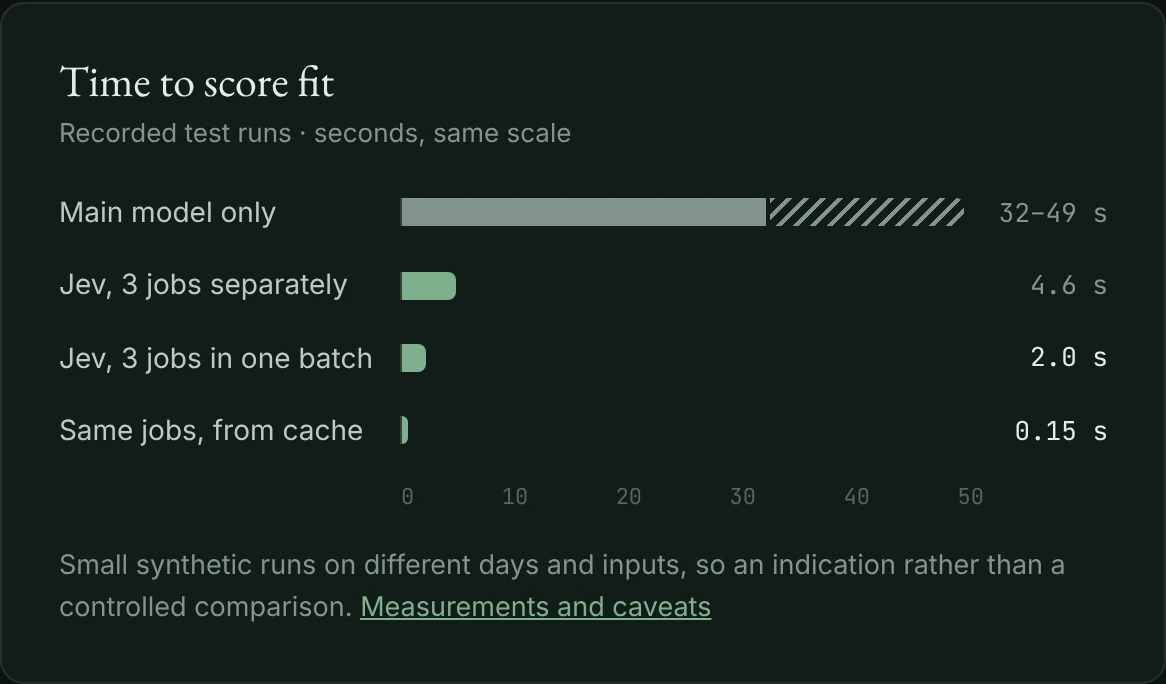
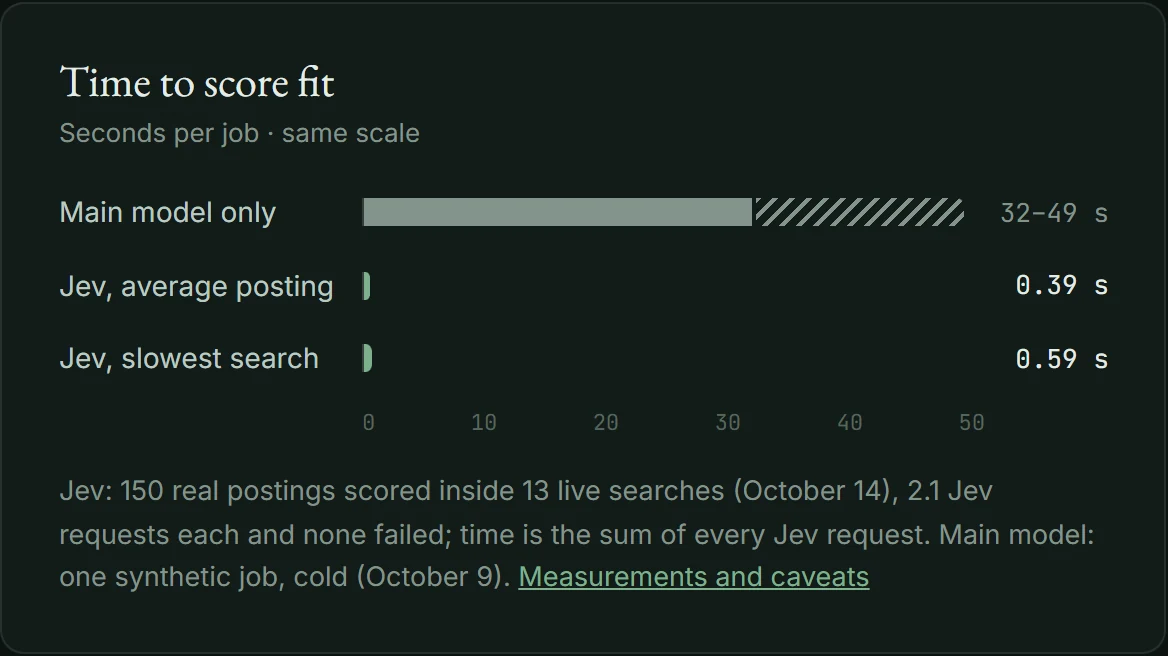
README and website: new Council screenshots and live Jev data
- Council screenshots (desktop and phone, Day and Night) retaken from the real app
  with demo data: the search summary and a tiered result card. The README grid now
  uses the desktop Council view like the other places.
- Jev chart and numbers from the live scenario runs: 150 real postings in 13
  searches, 0.39 s of Jev time per posting (0.28–0.59 s per search), 2.1 requests
  each, 0 of 317 failed. Chart images are rendered from the website's own chart.
- Guide example and image descriptions match the new screenshot.

diff --git a/frontend/site/index.html b/frontend/site/index.html
@@ -137,8 +137,8 @@
       <figure class="hero-shot">
         <div class="window">
           <div class="window-bar" aria-hidden="true"><i></i><i></i><i></i><span>localhost:8000/apply</span></div>
-          <img class="for-night" src="assets/screens/chat-night.webp" width="1600" height="1000" alt="Eregion's Council view: a 91 out of 100 match for a Product Analyst role, with the agent's explanation of strengths and the one gap.">
-          <img class="for-day" src="assets/screens/chat-light.webp" width="1600" height="1000" alt="Eregion's Council view in the Day theme, showing a job match card and the agent's reply." loading="lazy">
+          <img class="for-night" src="assets/screens/chat-night.webp" width="1600" height="1000" alt="Eregion's Council view: the agent's search summary and a priority match card, 91 out of 100 for a Product Analyst role, with its reason, gap and next step.">
+          <img class="for-day" src="assets/screens/chat-light.webp" width="1600" height="1000" alt="Eregion's Council view in the Day theme, showing the search summary and a priority match card." loading="lazy">
         </div>
         <div class="phone" aria-hidden="true">
           <img class="for-night" src="assets/screens/phone-night.webp" width="640" height="1385" alt="">
@@ -229,9 +229,9 @@
       <ul class="tiles">
         <li>
           <a href="guide.html#find">
-            <div class="window"><img class="for-night" src="assets/screens/chat-night.webp" width="1600" height="1000" alt="A conversation with a 91 out of 100 match card." loading="lazy"><img class="for-day" src="assets/screens/chat-light.webp" width="1600" height="1000" alt="" loading="lazy"></div>
+            <div class="window"><img class="for-night" src="assets/screens/chat-night.webp" width="1600" height="1000" alt="A conversation with a priority match card, 91 out of 100." loading="lazy"><img class="for-day" src="assets/screens/chat-light.webp" width="1600" height="1000" alt="" loading="lazy"></div>
             <h3><svg class="i" aria-hidden="true"><use href="#i-council"/></svg>Council</h3>
-            <p>Ask for roles, a fit score or a cover letter in plain words.</p>
+            <p>Ask in plain words; results come back sorted into tiers, with gaps written out.</p>
           </a>
         </li>
         <li>
@@ -257,36 +257,31 @@
     <div class="wrap speed-grid">
       <div class="speed-copy">
         <p class="eyebrow"><svg class="i" aria-hidden="true"><use href="#i-bolt"/></svg>Optional fast path</p>
-        <h2>Fit scores in seconds with Jev.</h2>
-        <p>Jev is a fast yes/no decision model from Typesafe. Turn it on and Eregion scores job fit with Jev alone, up to sixteen jobs per batch, and keeps the decisions in a local cache. Your main model still handles conversation and writing.</p>
+        <h2>Fit scores in under a second with Jev.</h2>
+        <p>Jev is a fast yes/no decision model from Typesafe. Turn it on and Eregion scores job fit with Jev alone, up to sixteen jobs per batch, and keeps the decisions in a local cache. In live searches it scored 150 real postings in about 0.4 seconds each. Your main model still handles conversation and writing.</p>
         <a class="text-link" href="docs.html#jev">How to turn it on<svg class="i" aria-hidden="true"><use href="#i-arrow"/></svg></a>
               </div>
       <figure class="speed-chart">
-        <figcaption><b>Time to score fit</b><span>Recorded test runs · seconds, same scale</span></figcaption>
-        <div class="bars" role="img" aria-label="Main model only, cold: 32 to 49 seconds. Three jobs with Jev, separately: 4.6 seconds. Three jobs in one Jev batch: 2.0 seconds. Same three jobs from cache: 0.15 seconds.">
-          <div class="bar-row" title="Main model only, cold fit analysis: 32–49 s">
+        <figcaption><b>Time to score fit</b><span>Seconds per job · same scale</span></figcaption>
+        <div class="bars" role="img" aria-label="Main model only, one job: 32 to 49 seconds. Jev, average real posting in live searches: 0.39 seconds. Jev, slowest of 13 live searches: 0.59 seconds per posting.">
+          <div class="bar-row" title="Main model only, one job, cold: 32–49 s">
             <span class="bar-label">Main model only</span>
             <span class="bar-track"><i class="bar main" style="width:64%"></i><i class="bar main-range" style="width:34%"></i></span>
             <span class="bar-value">32–49 s</span>
           </div>
-          <div class="bar-row" title="Three jobs scored separately with Jev, cold: 4.6 s">
-            <span class="bar-label">Jev, 3 jobs separately</span>
-            <span class="bar-track"><i class="bar jev" style="width:9.2%"></i></span>
-            <span class="bar-value">4.6 s</span>
+          <div class="bar-row" title="Jev, average per real posting across 13 live searches: 0.39 s">
+            <span class="bar-label">Jev, average posting</span>
+            <span class="bar-track"><i class="bar jev" style="width:0.78%"></i></span>
+            <span class="bar-value strong">0.39 s</span>
           </div>
-          <div class="bar-row" title="Three jobs in one Jev batch, cold: 2.0 s">
-            <span class="bar-label">Jev, 3 jobs in one batch</span>
-            <span class="bar-track"><i class="bar jev" style="width:4%"></i></span>
-            <span class="bar-value strong">2.0 s</span>
-          </div>
-          <div class="bar-row" title="Same three jobs again from the local cache: 0.15 s">
-            <span class="bar-label">Same jobs, from cache</span>
-            <span class="bar-track"><i class="bar jev" style="width:0.3%"></i></span>
-            <span class="bar-value strong">0.15 s</span>
+          <div class="bar-row" title="Jev, slowest of the 13 live searches: 0.59 s per posting">
+            <span class="bar-label">Jev, slowest search</span>
+            <span class="bar-track"><i class="bar jev" style="width:1.18%"></i></span>
+            <span class="bar-value strong">0.59 s</span>
           </div>
           <div class="bar-axis" aria-hidden="true"><span></span><span class="ticks-row"><b>0</b><b>10</b><b>20</b><b>30</b><b>40</b><b>50</b></span><span></span></div>
         </div>
-        <p class="fine">Small synthetic runs on different days and inputs, so an indication rather than a controlled comparison. <a href="docs.html#jev">Measurements and caveats</a></p>
+        <p class="fine">Jev: 150 real postings scored inside 13 live searches (October 14), 2.1 Jev requests each and none failed; time is the sum of every Jev request. Main model: one synthetic job, cold (October 9). <a href="docs.html#jev">Measurements and caveats</a></p>
       </figure>
     </div>
   </section>

diff --git a/frontend/site/docs.html b/frontend/site/docs.html
@@ -194,31 +194,26 @@
         <h2><svg class="i" aria-hidden="true"><use href="#i-bolt"/></svg>Jev fast fit scoring</h2>
         <p>Optional. With Jev on, fit scoring uses Typesafe's Jev decision model alone, batches up to sixteen jobs, and caches decisions on your computer. Conversation and writing still use your main model.</p>
         <figure class="speed-chart">
-        <figcaption><b>Time to score fit</b><span>Recorded test runs · seconds, same scale</span></figcaption>
-        <div class="bars" role="img" aria-label="Main model only, cold: 32 to 49 seconds. Three jobs with Jev, separately: 4.6 seconds. Three jobs in one Jev batch: 2.0 seconds. Same three jobs from cache: 0.15 seconds.">
-          <div class="bar-row" title="Main model only, cold fit analysis: 32–49 s">
+        <figcaption><b>Time to score fit</b><span>Seconds per job · same scale</span></figcaption>
+        <div class="bars" role="img" aria-label="Main model only, one job: 32 to 49 seconds. Jev, average real posting in live searches: 0.39 seconds. Jev, slowest of 13 live searches: 0.59 seconds per posting.">
+          <div class="bar-row" title="Main model only, one job, cold: 32–49 s">
             <span class="bar-label">Main model only</span>
             <span class="bar-track"><i class="bar main" style="width:64%"></i><i class="bar main-range" style="width:34%"></i></span>
             <span class="bar-value">32–49 s</span>
           </div>
-          <div class="bar-row" title="Three jobs scored separately with Jev, cold: 4.6 s">
-            <span class="bar-label">Jev, 3 jobs separately</span>
-            <span class="bar-track"><i class="bar jev" style="width:9.2%"></i></span>
-            <span class="bar-value">4.6 s</span>
+          <div class="bar-row" title="Jev, average per real posting across 13 live searches: 0.39 s">
+            <span class="bar-label">Jev, average posting</span>
+            <span class="bar-track"><i class="bar jev" style="width:0.78%"></i></span>
+            <span class="bar-value strong">0.39 s</span>
           </div>
-          <div class="bar-row" title="Three jobs in one Jev batch, cold: 2.0 s">
-            <span class="bar-label">Jev, 3 jobs in one batch</span>
-            <span class="bar-track"><i class="bar jev" style="width:4%"></i></span>
-            <span class="bar-value strong">2.0 s</span>
-          </div>
-          <div class="bar-row" title="Same three jobs again from the local cache: 0.15 s">
-            <span class="bar-label">Same jobs, from cache</span>
-            <span class="bar-track"><i class="bar jev" style="width:0.3%"></i></span>
-            <span class="bar-value strong">0.15 s</span>
+          <div class="bar-row" title="Jev, slowest of the 13 live searches: 0.59 s per posting">
+            <span class="bar-label">Jev, slowest search</span>
+            <span class="bar-track"><i class="bar jev" style="width:1.18%"></i></span>
+            <span class="bar-value strong">0.59 s</span>
           </div>
           <div class="bar-axis" aria-hidden="true"><span></span><span class="ticks-row"><b>0</b><b>10</b><b>20</b><b>30</b><b>40</b><b>50</b></span><span></span></div>
         </div>
-        <p class="fine">Small synthetic runs on different days and inputs, so an indication rather than a controlled comparison. <a href="https://github.com/ethany14/Eregion-Job-Finding-Agent/blob/main/docs/jev-benchmark.md">Full measurements</a></p>
+        <p class="fine">Jev: 150 real postings scored inside 13 live searches (October 14), 2.1 Jev requests each and none failed; time is the sum of every Jev request. Main model: one synthetic job, cold (October 9). <a href="https://github.com/ethany14/Eregion-Job-Finding-Agent/blob/main/docs/jev-benchmark.md">Measurements and caveats</a></p>
       </figure>
         <pre class="code"><code>TYPESAFE_API_KEY=your-typesafe-key
 TYPESAFE_BASE_URL=https://api.typesafe.ai

diff --git a/frontend/site/guide.html b/frontend/site/guide.html
@@ -218,15 +218,15 @@ python -m uvicorn eregion.api.main:app --host 127.0.0.1 --port 8000</code></pre>
 </ol><p class="flow-legend"><span class="k agent">Eregion does it</span><span class="k you">Needs you</span></p>
         <div class="demo-chat" aria-label="Example reply">
           <p class="demo-who"><svg class="i" aria-hidden="true"><use href="#i-star"/></svg>Eregion</p>
-          <p>I searched 23 company boards and two pages of LinkedIn results and read 18 postings. <b>7 are worth your time</b>: 2 priority matches, 3 worth trying, and 2 that need your confirmation.</p>
+          <p>I searched 23 company boards and two pages of LinkedIn and read 18 postings in full. <b>7 are worth your time</b>: 2 priority matches, 3 worth trying and 2 that need your confirmation.</p>
           <div class="demo-card">
-            <div class="demo-score"><b>81</b><small>/100</small></div>
+            <div class="demo-score"><b>91</b><small>/100</small></div>
             <div class="demo-detail">
-              <p class="demo-title">Graduate Data Analyst <span>Priority match · New York</span></p>
+              <p class="demo-title">Product Analyst <span>Priority match · Halcyon Labs · New York</span></p>
               <ul class="demo-ev">
-                <li class="ok">SQL and Python dashboards <small>Resume, Fictional Analytics</small></li>
+                <li class="ok">SQL and dbt in production <small>Resume, Corvid Retail</small></li>
                 <li class="ok">Entry-level opening <small>"0–2 years of experience"</small></li>
-                <li class="gap">To confirm: work authorization <small>Not stated in your resume</small></li>
+                <li class="gap">Looker is preferred <small>You list Tableau</small></li>
               </ul>
             </div>
           </div>

diff --git a/README.md b/README.md
@@ -34,12 +34,50 @@ practise for interviews.
 Everything stays in a local database. Model work uses the API key you provide,
 and nothing is submitted without your approval.
 
-<p align="center">
-  <picture>
-    <source media="(prefers-color-scheme: light)" srcset="frontend/site/assets/screens/chat-light.webp">
-    <img src="frontend/site/assets/screens/chat-night.webp" alt="A conversation in Eregion: a 91/100 match for a Product Analyst role, with the agent's explanation of strengths and the one gap." width="92%">
-  </picture>
-</p>
+## A workspace for the whole search
+
+<table>
+  <tr>
+    <td width="50%" valign="top">
+      <picture>
+        <source media="(prefers-color-scheme: light)" srcset="frontend/site/assets/screens/chat-light.webp">
+        <img src="frontend/site/assets/screens/chat-night.webp" alt="Council: the agent's search summary and a priority match card for a Product Analyst role, with its reason, gap and next step.">
+      </picture>
+      <h3>💬 Council</h3>
+      Your conversations with the agent. Results arrive as cards with their tier, reason, gaps and next step.
+    </td>
+    <td width="50%" valign="top">
+      <picture>
+        <source media="(prefers-color-scheme: light)" srcset="frontend/site/assets/screens/home-light.webp">
+        <img src="frontend/site/assets/screens/home-night.webp" alt="The Chronicle home view: today's events, beacons that need you, and applications on the road.">
+      </picture>
+      <h3>📖 Chronicle</h3>
+      Home: what happened today, and which conversations are waiting on you.
+    </td>
+  </tr>
+  <tr>
+    <td width="50%" valign="top">
+      <picture>
+        <source media="(prefers-color-scheme: light)" srcset="frontend/site/assets/screens/road-light.webp">
+        <img src="frontend/site/assets/screens/road-night.webp" alt="The Road: application totals, a winding map of stations, and a progress table.">
+      </picture>
+      <h3>🛤 The Road</h3>
+      Every application on one map, board or table, with response rates.
+    </td>
+    <td width="50%" valign="top">
+      <picture>
+        <source media="(prefers-color-scheme: light)" srcset="frontend/site/assets/screens/forge-light.webp">
+        <img src="frontend/site/assets/screens/forge-night.webp" alt="The Forge: tailored resumes and cover letters with a drafted, tempered and sealed trail and a verified preview.">
+      </picture>
+      <h3>⚒ The Forge</h3>
+      Materials are <i>drafted</i>, <i>tempered</i> (each claim checked against your resume) and <i>sealed</i> when you approve them.
+    </td>
+  </tr>
+</table>
+
+Job alerts run recurring searches and send you digests, and **The Lookout**
+shows the agent's browser so you can take control. Switch between parchment
+**Day** and holly-green **Night** from the sidebar.
 
 ## How a job search works
 
@@ -95,51 +133,6 @@ flowchart LR
 You can correct, pause or take over at any time. **Approving materials and the
 final submit are always yours.**
 
-## A workspace for the whole search
-
-<table>
-  <tr>
-    <td width="50%" valign="top">
-      <picture>
-        <source media="(prefers-color-scheme: light)" srcset="frontend/site/assets/screens/home-light.webp">
-        <img src="frontend/site/assets/screens/home-night.webp" alt="The Chronicle home view: today's events, beacons that need you, and applications on the road.">
-      </picture>
-      <h3>📖 Chronicle</h3>
-      Home: what happened today, and which conversations are waiting on you.
-    </td>
-    <td width="50%" valign="top">
-      <picture>
-        <source media="(prefers-color-scheme: light)" srcset="frontend/site/assets/screens/road-light.webp">
-        <img src="frontend/site/assets/screens/road-night.webp" alt="The Road: application totals, a winding map of stations, and a progress table.">
-      </picture>
-      <h3>🛤 The Road</h3>
-      Every application on one map, board or table, with response rates.
-    </td>
-  </tr>
-  <tr>
-    <td width="50%" valign="top">
-      <picture>
-        <source media="(prefers-color-scheme: light)" srcset="frontend/site/assets/screens/forge-light.webp">
-        <img src="frontend/site/assets/screens/forge-night.webp" alt="The Forge: tailored resumes and cover letters with a drafted, tempered and sealed trail and a verified preview.">
-      </picture>
-      <h3>⚒ The Forge</h3>
-      Materials are <i>drafted</i>, <i>tempered</i> (each claim checked against your resume) and <i>sealed</i> when you approve them.
-    </td>
-    <td width="50%" valign="top">
-      <picture>
-        <source media="(prefers-color-scheme: light)" srcset="frontend/site/assets/screens/phone-light.webp">
-        <img src="frontend/site/assets/screens/phone-night.webp" alt="Eregion on a phone-width screen." width="46%">
-      </picture>
-      <h3>💬 Council</h3>
-      Your conversations with the agent, in folders, pinned or archived, and on any screen size.
-    </td>
-  </tr>
-</table>
-
-Job alerts run recurring searches and send you digests, and **The Lookout**
-shows the agent's browser so you can take control. Switch between parchment
-**Day** and holly-green **Night** from the sidebar.
-
 <a id="where-jobs-come-from"></a>
 ## Where jobs come from
 
@@ -161,19 +154,25 @@ planning and writing. Eregion works fully without it.
 <p align="center">
   <picture>
     <source media="(prefers-color-scheme: light)" srcset="frontend/site/assets/readme/jev-speed-light.webp">
-    <img src="frontend/site/assets/readme/jev-speed-dark.webp" alt="Time to score fit: main model only 32–49 s; Jev, three jobs separately 4.6 s; Jev, three jobs in one batch 2.0 s; same jobs from cache 0.15 s." width="70%">
+    <img src="frontend/site/assets/readme/jev-speed-dark.webp" alt="Time to score fit, seconds per job on one scale: main model only 32–49 s; Jev, average real posting 0.39 s; Jev, slowest live search 0.59 s per posting." width="70%">
   </picture>
 </p>
 
-| Recorded run (synthetic resumes) | Time |
-| :-- | --: |
-| Main model only, cold | 32–49 s |
-| Three jobs in one Jev batch, cold | **2.0 s** |
-| Same three jobs again, from the local cache | **0.15 s** |
+In the October 14 scenario runs, Jev scored **150 real postings inside 13 live
+searches**:
 
-These are small runs on different days and inputs, so treat them as an
-indication, not a guarantee. To turn Jev on, add these lines to `.env` and
-restart:
+| Measure | Result |
+| :-- | --: |
+| Jev time per posting, average | **0.39 s** |
+| Jev time per posting, per search | 0.28–0.59 s |
+| Jev requests per posting | 2.1 |
+| Failed Jev requests | 0 of 317 |
+| Main model only, one job (earlier synthetic test) | 32–49 s |
+
+Jev time is the total of its request times, and postings were scored in shared
+batches. The main-model figure comes from a separate cold test, so the two rows
+compare scale, not identical conditions. To turn Jev on, add these lines to
+`.env` and restart:
 
 ```dotenv
 TYPESAFE_API_KEY=your-typesafe-key
